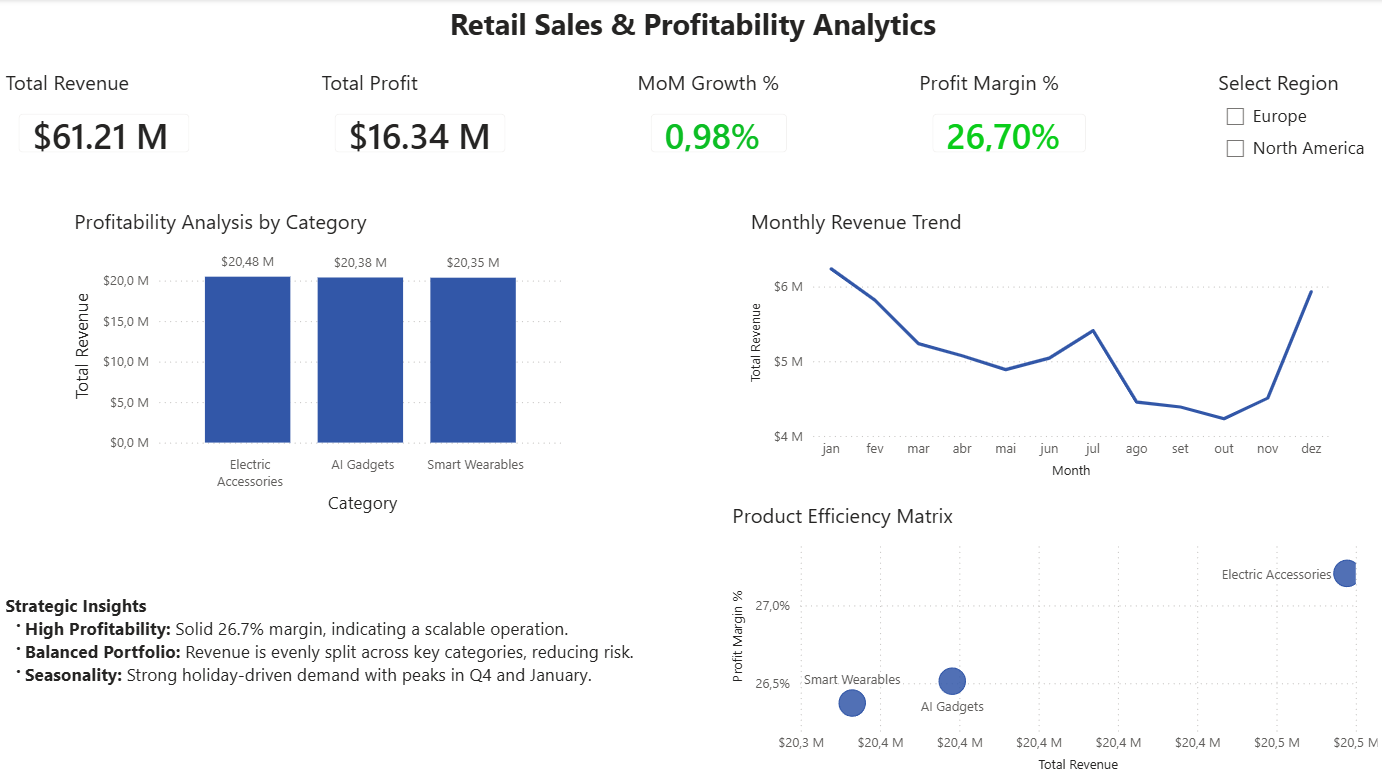
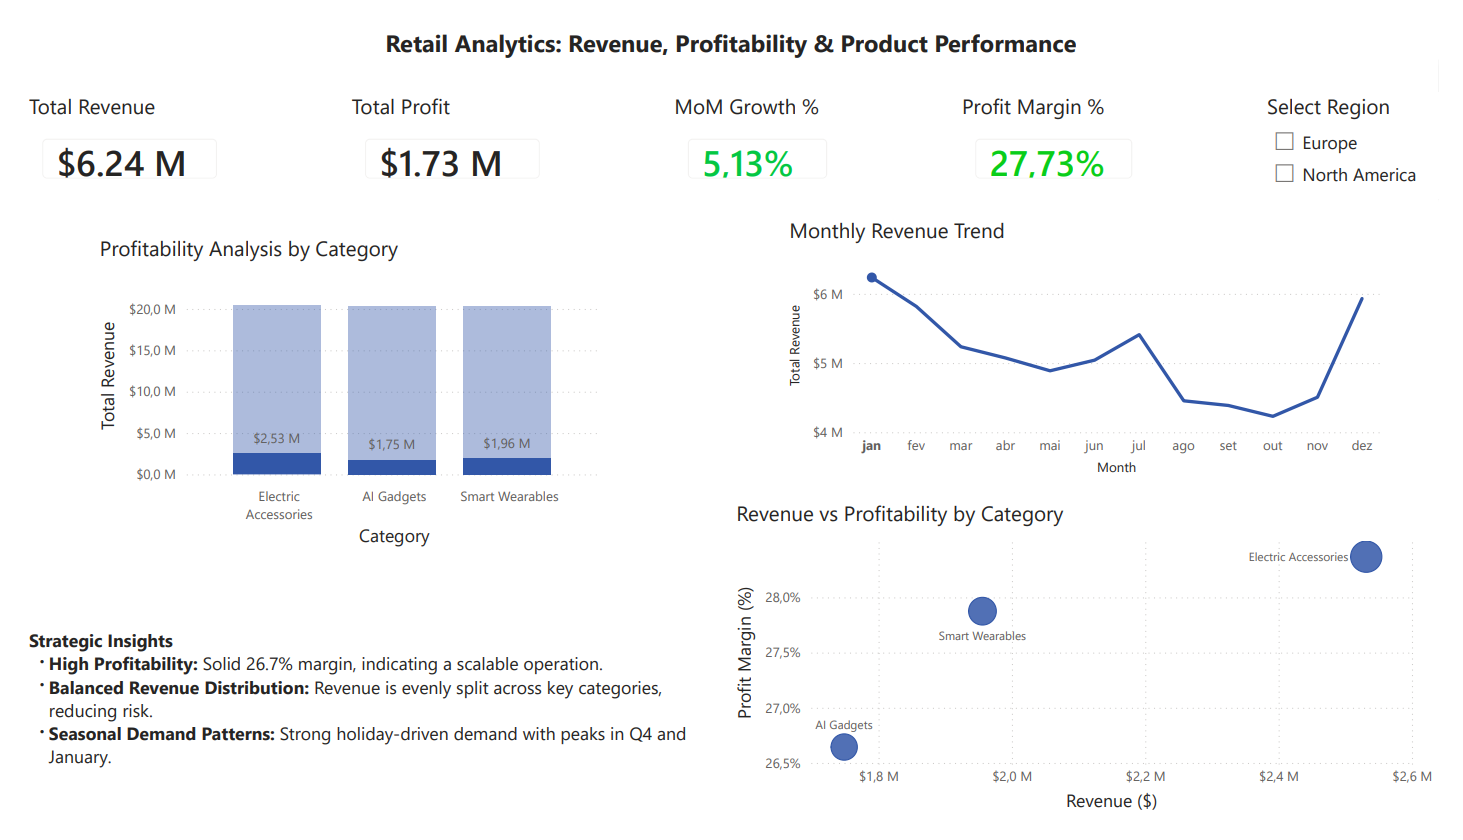
refactor: translate SQL to English and improve README architecture

diff --git a/README.md b/README.md
@@ -1,7 +1,22 @@
 # Retail Sales & Profitability Analytics Dashboard 📊
 
+🔗 **GitHub Repository:** [https://github.com/RuiCDev/salesmind-retail-sales-analytics](https://github.com/RuiCDev/salesmind-retail-sales-analytics)
+
 ## 📌 Project Overview
 This project delivers an end-to-end Business Intelligence solution, transforming raw retail data into actionable strategic insights. Using a **MySQL** backend and a **Power BI** frontend, I developed a comprehensive dashboard to monitor global sales performance, profitability, and product efficiency.
+
+---
+
+## 🏗 Project Architecture
+The project follows a classic BI pipeline:
+
+* 📥 **Raw Data**: Sourced from Kaggle.
+* 🧹 **Data Cleaning**: Performed in MySQL.
+* 🏗 **Modeling**: Star Schema implementation.
+* 📊 **Visualization**: Power BI Interactive Dashboard.
+* 💡 **Outcome**: Strategic Business Insights.
+
+---
 
 ## 🛠 Tech Stack
 * **Database:** MySQL (Data cleaning, Schema design)
@@ -16,64 +31,52 @@ The raw data used in this project was sourced from Kaggle:
 ---
 
 ## 🧩 Data Preparation (SQL)
-Data cleaning and transformation were performed in MySQL to ensure data integrity and reporting accuracy. Key steps included:
-* **Data Type Standardization:** Formatting dates and numeric fields for time-intelligence calculations.
+Data cleaning and transformation were performed in MySQL to ensure data integrity. Key steps included:
+* **Data Type Standardization:** Formatting dates and numeric fields.
 * **Redundancy Removal:** Elimination of duplicates using aggregation logic.
-* **Schema Design:** Creation of clean dimension tables and implementation of foreign key relationships.
+* **Schema Design:** Creation of clean dimension tables.
 * **Optimization:** Final dataset structured into a Star Schema optimized for high-performance BI reporting.
 
 ---
 
 ## 🏗 Data Architecture & Modeling
-To ensure a scalable and performant solution, I implemented a **Star Schema**. This structure optimizes data retrieval and allows for complex DAX calculations across multiple dimensions.
+To ensure a scalable and performant solution, I implemented a **Star Schema**. 
 
 ![Data Model](screenshots/salesmind_data_model.png)
-*Figure 1: Star Schema showing the central Fact Table (sales_clean) connected to Dimensions (Calendar, Products, Stores, and Customer Segments).*
+*Figure 1: Star Schema showing the central Fact Table connected to Dimensions (Calendar, Products, Stores, and Customer Segments).*
 
 ---
 
 ## 📈 Strategic Insights
 
 ### 1. Strong Profitability Performance
-The business generated **$61.21M** in revenue with **$16.34M** profit, resulting in a solid **26.7%** profit margin — indicating a highly sustainable and scalable operation.
+The business generated **$61.21M** in revenue with **$16.34M** profit, resulting in a solid **26.7%** profit margin.
 
 ### 2. Balanced Product Portfolio
-Revenue is evenly distributed across key categories (*Electric Accessories, AI Gadgets, Smart Wearables*), reducing dependency risk and ensuring portfolio stability.
+Revenue is evenly distributed across key categories (*Electric Accessories, AI Gadgets, Smart Wearables*), reducing dependency risk.
 
 ### 3. Seasonal Revenue Patterns
-Sales peak in **January and December**, highlighting strong holiday-driven demand and post-season sales effects. This suggests opportunities for targeted campaigns during high-impact periods.
+Sales peak in **January and December**, highlighting strong holiday-driven demand.
 
 ---
 
 ## 💡 Business Impact
 This analysis enables stakeholders to:
-* **Optimize Inventory:** Identify high-performing product categories to improve stock allocation.
-* **Marketing ROI:** Leverage seasonal demand patterns to improve marketing timing and campaign effectiveness.
-* **Margin Protection:** Monitor profitability in real-time to prevent margin erosion and refine pricing strategies.
-* **Agile Decisions:** Support data-driven decision-making across different regions and product lines.
-
----
-
-## 🚀 Key Visuals & Features
-* **Executive KPIs:** Real-time tracking of Revenue, Profit, Margin, and MoM Growth.
-* **Product Efficiency Matrix:** A Scatter Plot analyzing the relationship between sales volume and margin efficiency.
-* **Dynamic Filtering:** Full interactivity by Region (Europe vs. North America).
+* **Optimize Inventory:** Identify high-performing product categories.
+* **Marketing ROI:** Leverage seasonal demand patterns for better campaign timing.
+* **Margin Protection:** Monitor profitability in real-time to prevent margin erosion.
+* **Enable faster and more accurate business decisions.**
 
 ---
 
 ## 📸 Dashboard Preview
 
 ### Executive Overview Dashboard
-The main view provides a high-level executive summary of the entire operation, highlighting total revenue, profitability, and growth trends.
 ![Executive Overview Dashboard](screenshots/salesmind_dashboard.png)
 
 ### Regional Performance Analysis
-Through interactive filtering, the dashboard allows for deep-dives into specific markets. Here we can observe the specific performance of the European region.
 ![Regional Performance Analysis](screenshots/salesmind_dashboard_europe.png)
-
 
 ---
 ## ⚖ License & Attribution
-This project uses the [SalesMind 2026 Dataset](https://www.kaggle.com/datasets/algozee/dayaset-2020) provided by AlgoZee on Kaggle. 
-The data is licensed under **CC BY-NC-SA 4.0**. 
-*This repository is for educational and portfolio purposes only.*
+This project uses the [SalesMind 2026 Dataset](https://www.kaggle.com/datasets/algozee/dayaset-2020).
